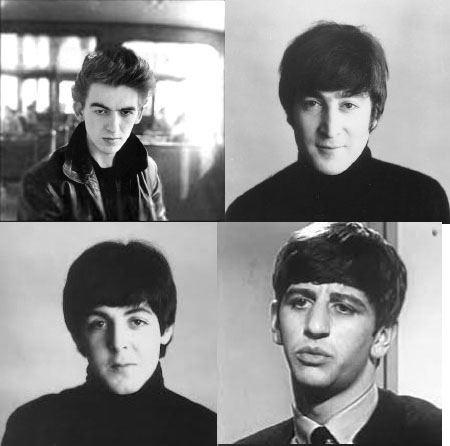
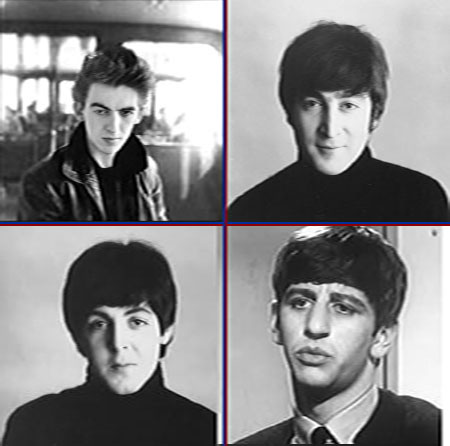
adjusted math

diff --git a/controllers.js b/controllers.js
@@ -2,37 +2,37 @@ $(window).load(function(){
   setSpriteSize();
 });
 function setSpriteSize(){
-  // container width
-  var cw = $('#sprite-test').width();
-  var ch = $('#sprite-test').height();
-  // image width
-  var iw = 450;
-  // image height
-  var ih = 450;
-  // sprite width
-  var sw = 225;
-  // sprite height
-  var sh = 224;
-  // sprite background-position
-  var bpx = -225;
-  var bpy = -224;
-  // Ratios
-  ratioW = cw/sw;
-  ratioH = ch/sh;
-  // Calculador de altura para imágenes
-  if(ch==0){
-    $('#sprite-test').css('height', sh * ratioW);
+  // image dimensions.
+  var imgW = 450;
+  var imgH = 446;
+  // sprite dimensions.
+  var sprW = 225;
+  var sprH = 224;
+  // sprite background-position.
+  var posX = -225;
+  var posY = -224;
+  // Container dimensions.
+  var conW = $('#sprite-test').width();
+  var conH = $('#sprite-test').height();
+  // Ratio between the width of the container and the width of the sprite.
+  var ratio = conW/sprW;
+  // sets conH if it has not been specified.
+  if(conH == 0){
+    conH= sprH * ratio;
+    $('#sprite-test').css('height', conH);
   }
-
-  if(ratioH*sh<ratioW*sh){
-    $('#sprite-test').css('background-size', iw * ratioW);
-    var height_positioner = ((sh * ratioW) - $('#sprite-test').height())/2;
-    var height_position = bpy * ratioW - height_positioner;
-    $('#sprite-test').css('background-position', bpx * ratioW + " " + height_position);
-  } else{
-    $('#sprite-test').css('background-size', iw * ratioH);
-    var width_positioner = ((sh * ratioH) - $('#sprite-test').width())/2;
-    var width_position = bpx * ratioH - width_positioner;
-    $('#sprite-test').css('background-position', width_position + " " + bpy * ratioH);
+  // Calculates background-size based on the ratio.
+  $('#sprite-test').css('background-size', imgW * ratio);
+  //Adjust background position to comply with the new background size. This process depends on whether the height of the container is bigger than the new calculated height of the sprite.
+  if(conH < sprH * ratio){
+    var yDisplacement = (sprH * ratio - conH)/2;
+    posY = posY * ratio - yDisplacement;
+    $('#sprite-test').css('background-position', posX * ratio + ' ' + posY);
+  } else if(conH >= sprH * ratio){
+    var ratio2 = conH/sprH;
+    var xDisplacement = (sprW * ratio2 - conW)/2;
+    var posX = posX * ratio2 - xDisplacement;
+    $('#sprite-test').css('background-size', imgW * ratio2);
+    $('#sprite-test').css('background-position', posX + ' ' + posY * ratio2);
   }
 }

diff --git a/index.html b/index.html
@@ -1,7 +1,7 @@
 <html>
   <head>
     <meta charset="utf-8" />
-    <title>The Beatles joke</title>
+    <title>Background Image sprite Experiment</title>
     <link rel="stylesheet" type="text/css" href="styles.css" />
     <link href='https://fonts.googleapis.com/css?family=Bree+Serif' rel='stylesheet' type='text/css' />
   </head>

diff --git a/styles.css b/styles.css
@@ -1,5 +1,8 @@
+html, body{
+  padding: 0;
+  margin: 0;
+}
 #sprite-test{
   background-image: url('george.jpg');
   background-repeat: no-repeat;
-  height: 300px;
 }
